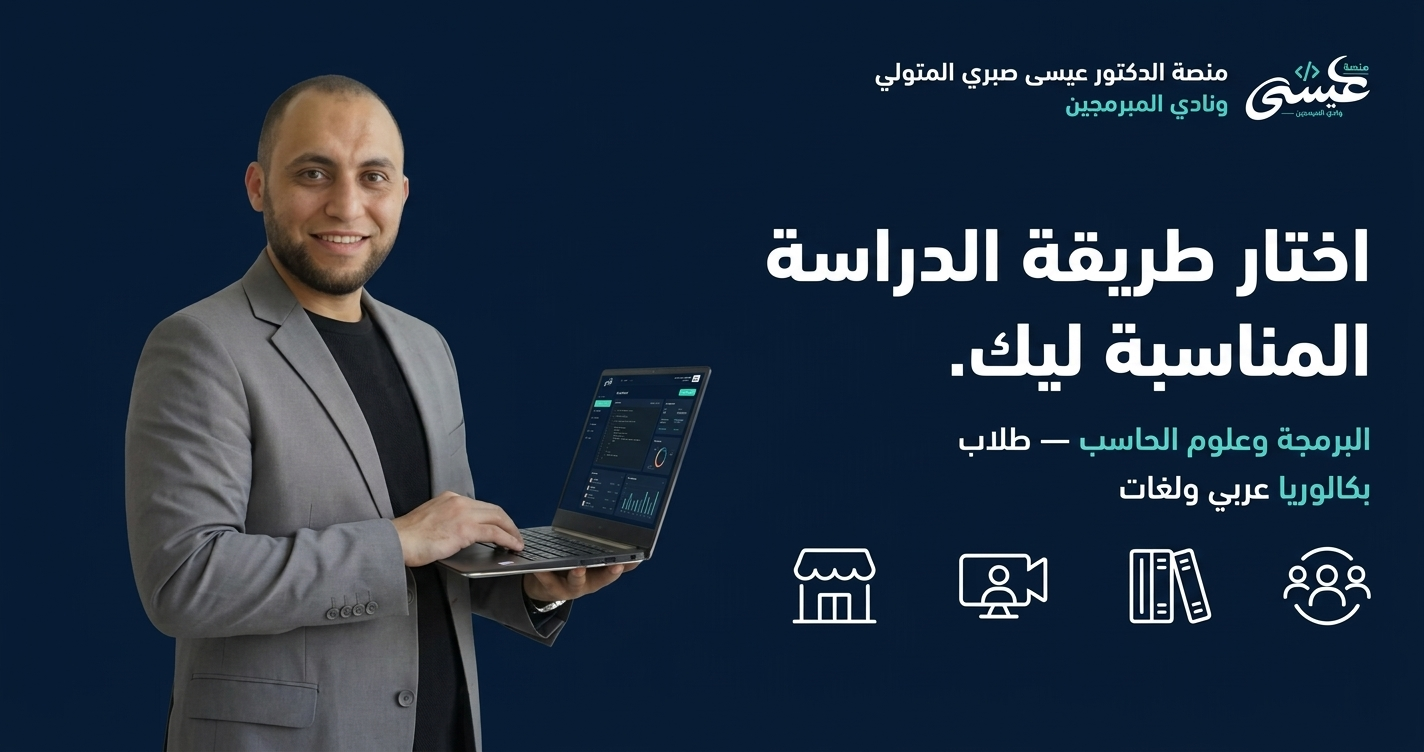
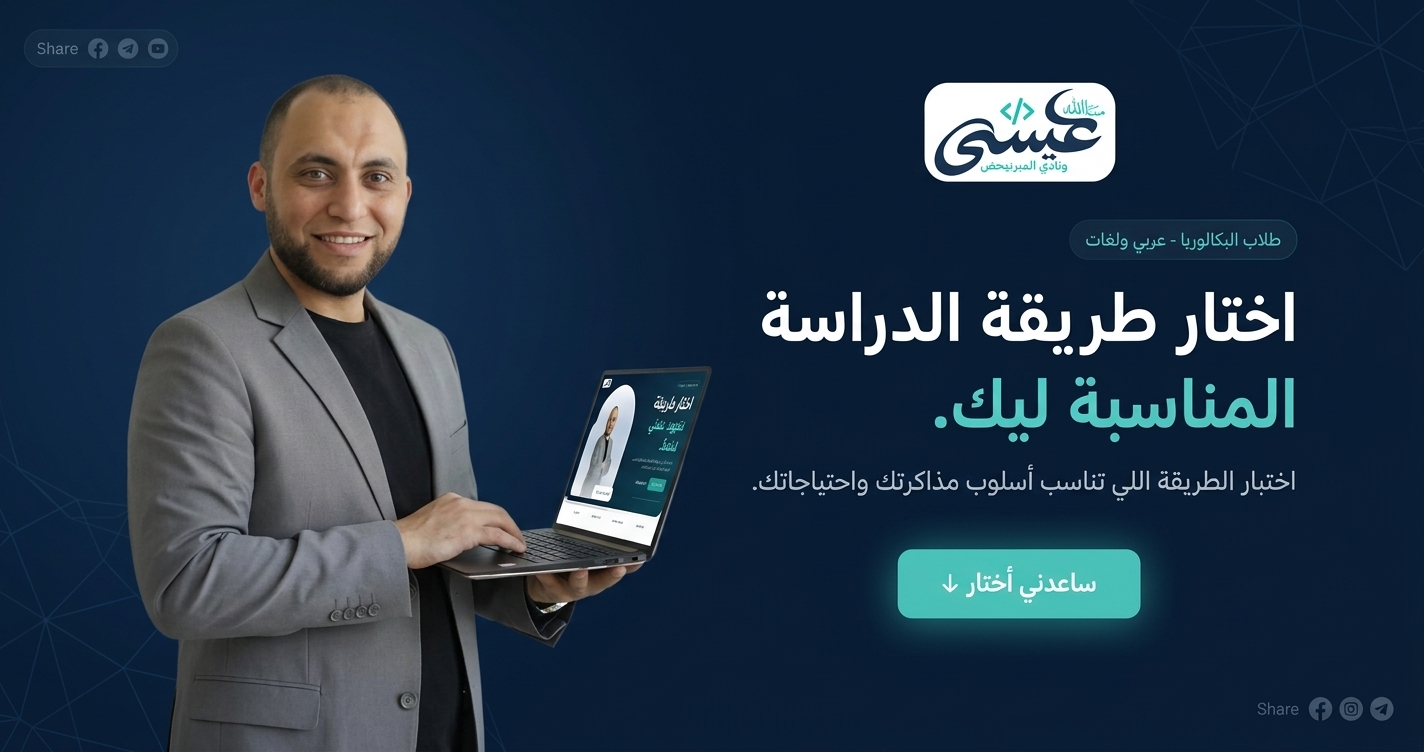
Open Graph edit

diff --git a/index.html b/index.html
@@ -22,14 +22,15 @@
 
   <!-- ── Document ─────────────────────────────────────────────────── -->
   <title>د. عيسى صبري | اختار طريقة الدراسة المناسبة</title>
-  <meta name="description"
-    content="اختار طريقة الدراسة المناسبة ليك: السنتر، Online Live، كتب شيخ البرمجة، أو نادي المبرمجين." />
+  <meta
+    name="description"
+    content="اختار طريقة الدراسة المناسبة ليك: السنتر، Online Live، كتب شيخ البرمجة، أو نادي المبرمجين."
+  />
 
-  <!-- Canonical URL — prevents duplicate-content issues if the page is
-       ever accessible from multiple addresses (www / non-www / http / https) -->
+  <!-- Canonical URL — replace with the final production domain before going live -->
   <link rel="canonical" href="CANONICAL_URL_PLACEHOLDER" />
 
-  <!-- Mobile browser chrome color — matches brand green -->
+  <!-- Mobile browser chrome color -->
   <meta name="theme-color" content="#071b35" />
 
   <!-- ── Favicon & icons ───────────────────────────────────────────── -->
@@ -43,30 +44,66 @@
   <meta property="og:type" content="website" />
   <meta property="og:locale" content="ar_EG" />
   <meta property="og:site_name" content="د. عيسى صبري" />
-  <meta property="og:url" content="CANONICAL_URL_PLACEHOLDER" />
-  <meta property="og:title" content="د. عيسى صبري | تعلم البرمجة وعلوم الحاسب" />
-  <meta property="og:description"
-    content="اختار طريقة الدراسة المناسبة ليك: السنتر، Online Live، كتب شيخ البرمجة، أو نادي المبرمجين." />
+
+  <meta
+    property="og:url"
+    content="CANONICAL_URL_PLACEHOLDER"
+  />
+
+  <meta
+    property="og:title"
+    content="د. عيسى صبري | اختار طريقة الدراسة المناسبة"
+  />
+
+  <meta
+    property="og:description"
+    content="اختار طريقة الدراسة المناسبة ليك: السنتر، Online Live، كتب شيخ البرمجة، أو نادي المبرمجين."
+  />
 
   <!--
-    OG image: must be an absolute URL (social crawlers don't resolve relative paths).
-    File: /public/og-image.png  (1200×630 PNG, generated from og-image.svg)
-    To regenerate: npm run og
-    To deploy: replace OG_IMAGE_ABSOLUTE_URL with https://YOURDOMAIN.com/og-image.png
+    OG image:
+    Temporary Vercel URL for testing.
+    Replace with the final production domain before going live.
+
+    File: /public/og-image.png
+    Dimensions: 1200×630
   -->
-  <meta property="og:image" content="https://finallandingpage-phi.vercel.app/og-image.png"/>
+  <meta
+    property="og:image"
+    content="https://finallandingpage-phi.vercel.app/og-image.png"
+  />
+
   <meta property="og:image:width" content="1200" />
   <meta property="og:image:height" content="630" />
-  <meta property="og:image:alt" content="د. عيسى صبري — اختار طريقة الدراسة المناسبة ليك" />
+
+  <meta
+    property="og:image:alt"
+    content="د. عيسى صبري — اختار طريقة الدراسة المناسبة ليك"
+  />
 
   <!-- ── Twitter / X Card ─────────────────────────────────────────── -->
-  <!-- summary_large_image: shows a large image preview in tweets/posts -->
   <meta name="twitter:card" content="summary_large_image" />
-  <meta name="twitter:title" content="د. عيسى صبري | تعلم البرمجة وعلوم الحاسب" />
-  <meta name="twitter:description"
-    content="اختار طريقة الدراسة المناسبة ليك: السنتر، Online Live، كتب شيخ البرمجة، أو نادي المبرمجين." />
-  <meta name="twitter:image" content="OG_IMAGE_ABSOLUTE_URL" />
-  <meta name="twitter:image:alt" content="د. عيسى صبري — اختار طريقة الدراسة المناسبة ليك" />
+
+  <meta
+    name="twitter:title"
+    content="د. عيسى صبري | اختار طريقة الدراسة المناسبة"
+  />
+
+  <meta
+    name="twitter:description"
+    content="اختار طريقة الدراسة المناسبة ليك: السنتر، Online Live، كتب شيخ البرمجة، أو نادي المبرمجين."
+  />
+
+  <!-- Temporary Vercel URL for testing -->
+  <meta
+    name="twitter:image"
+    content="https://finallandingpage-phi.vercel.app/og-image.png"
+  />
+
+  <meta
+    name="twitter:image:alt"
+    content="د. عيسى صبري — اختار طريقة الدراسة المناسبة ليك"
+  />
 
   <!-- ── Fonts ─────────────────────────────────────────────────────── -->
   <!-- No external font loaded. Page uses system font stack: Segoe UI, Tahoma, Arial. -->
